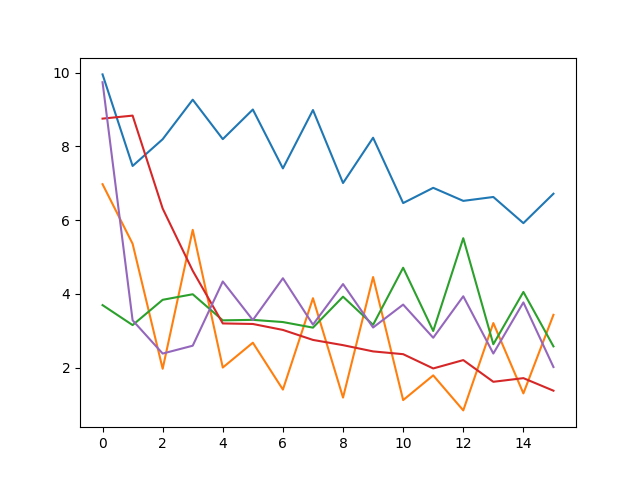
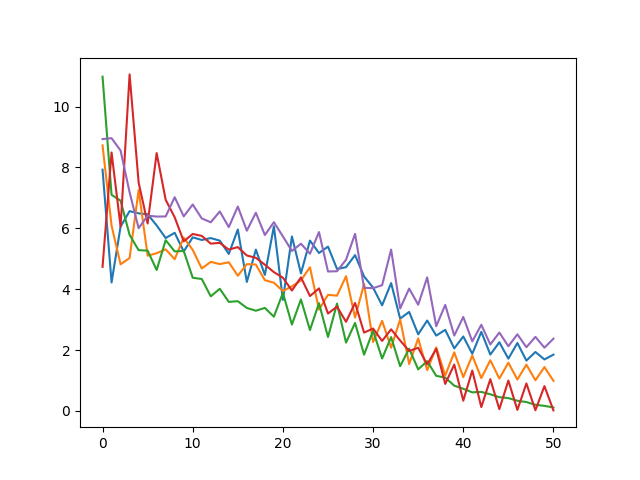
Updated task1

diff --git a/Task1/Causal Gradient Tracking.py b/Task1/Causal Gradient Tracking.py
@@ -8,7 +8,7 @@ warnings.filterwarnings("ignore")
 
 ###############################################################################
 # Useful constants
-MAXITERS = 15 + 1
+MAXITERS = 50 + 1
 NN = 5  # Agents
 T = 3   # Layers
 chosen_class = 4    # Class to predict
